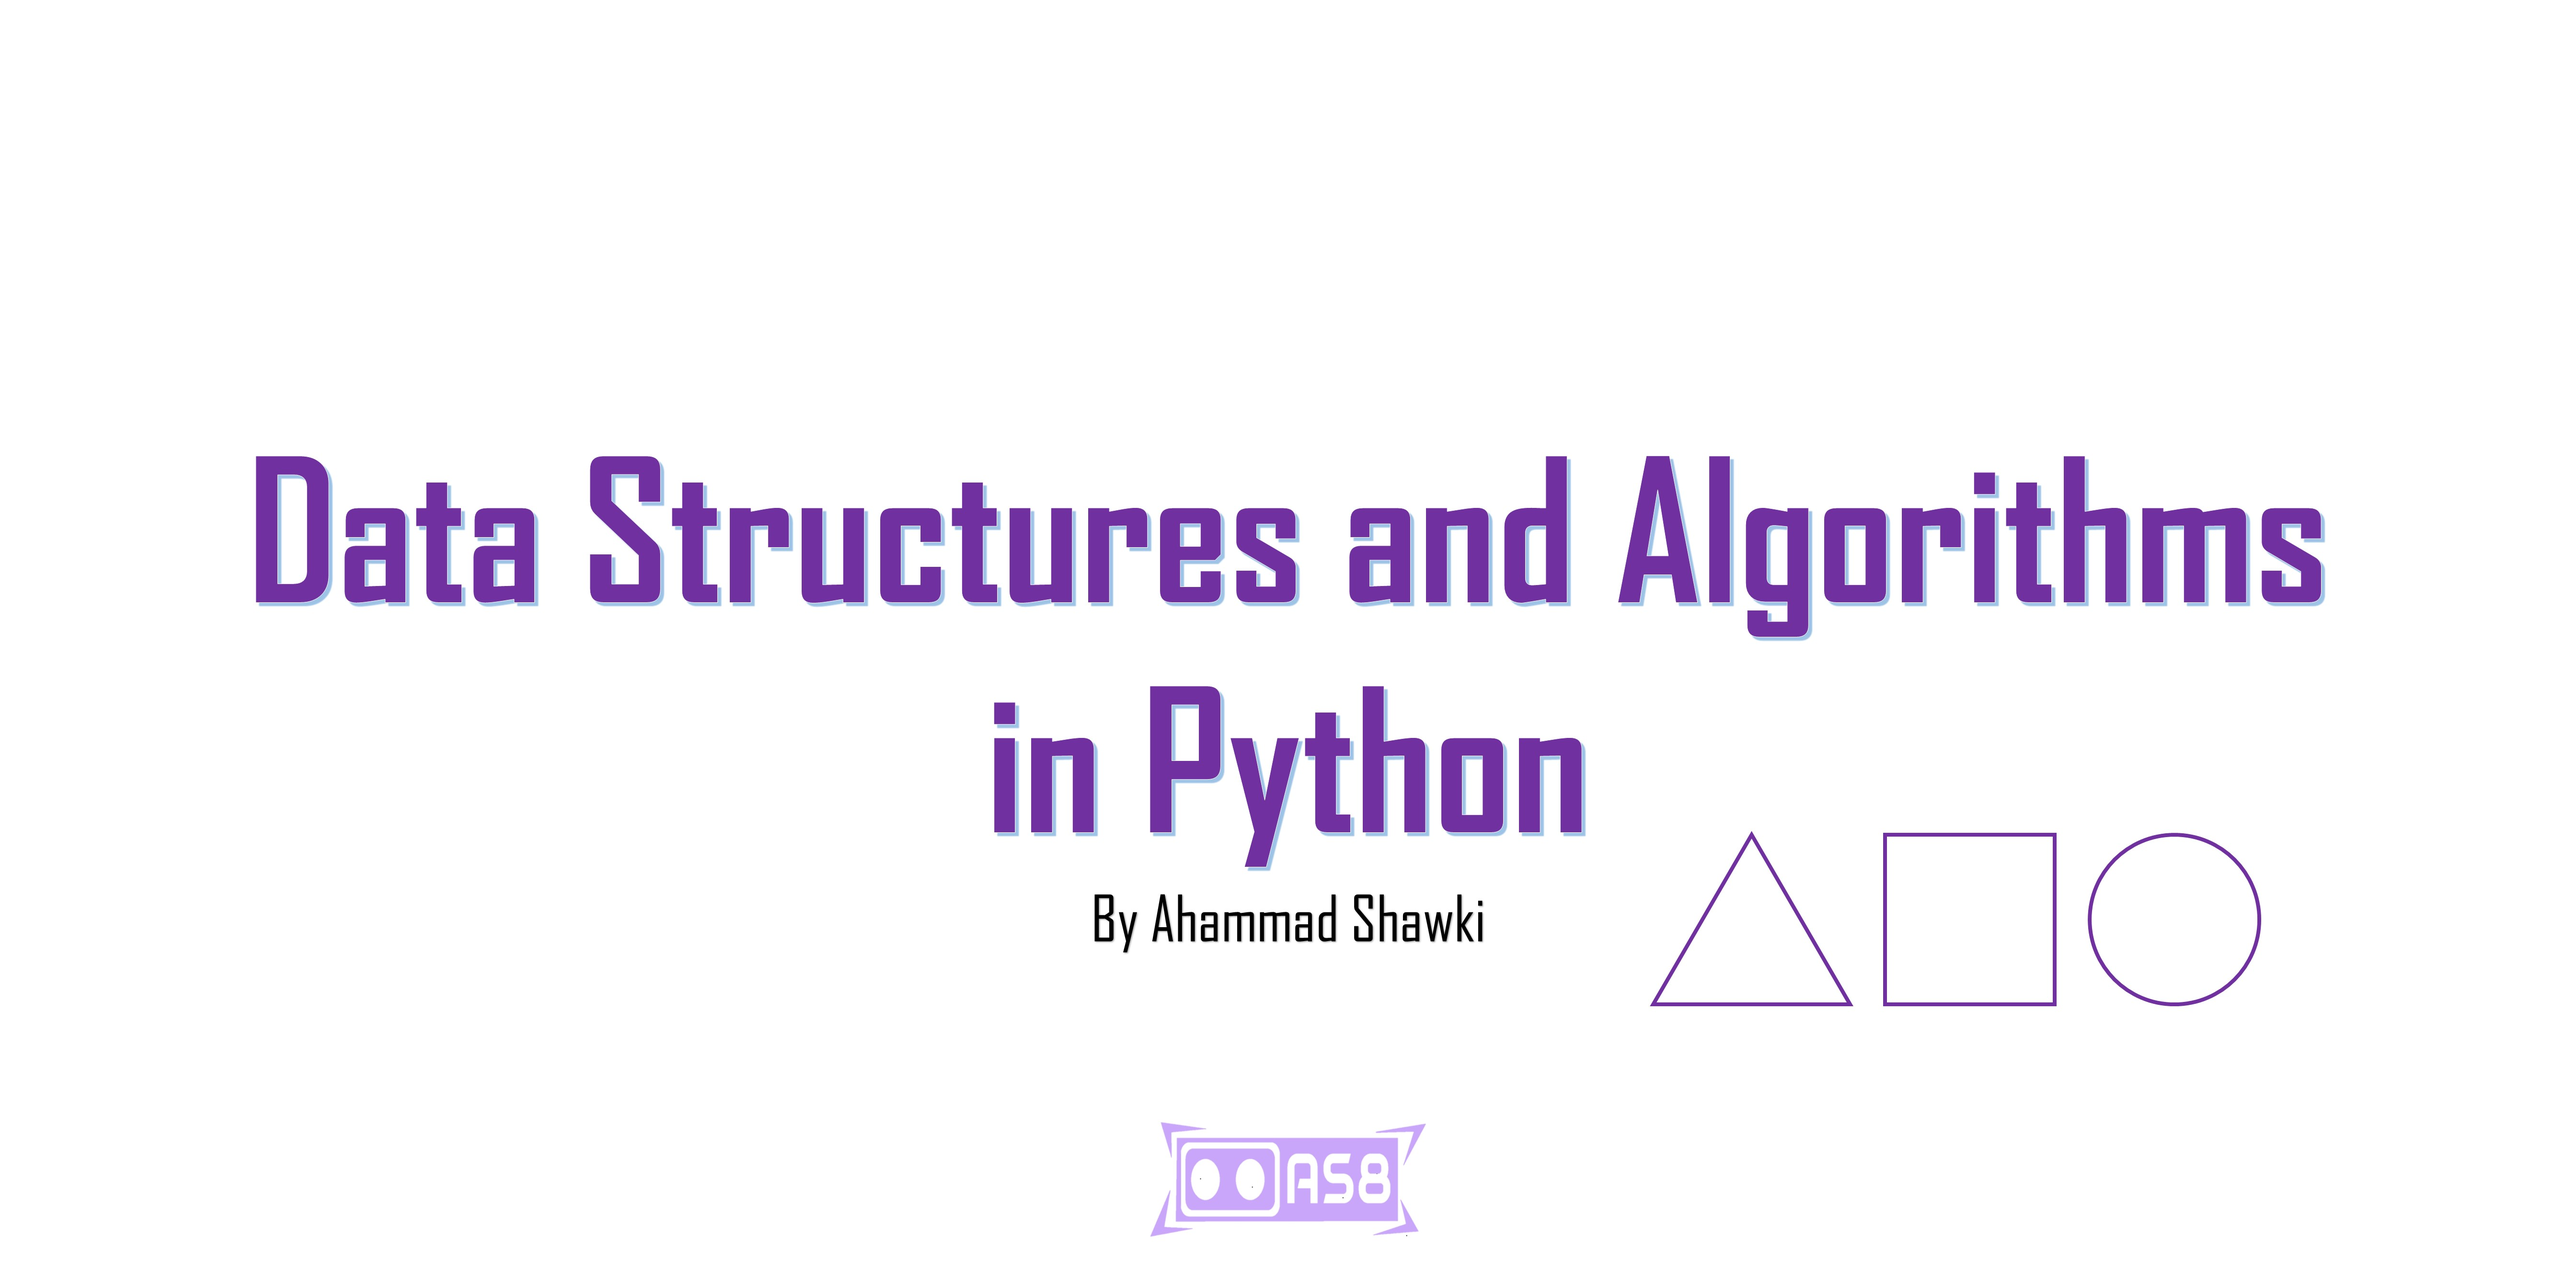
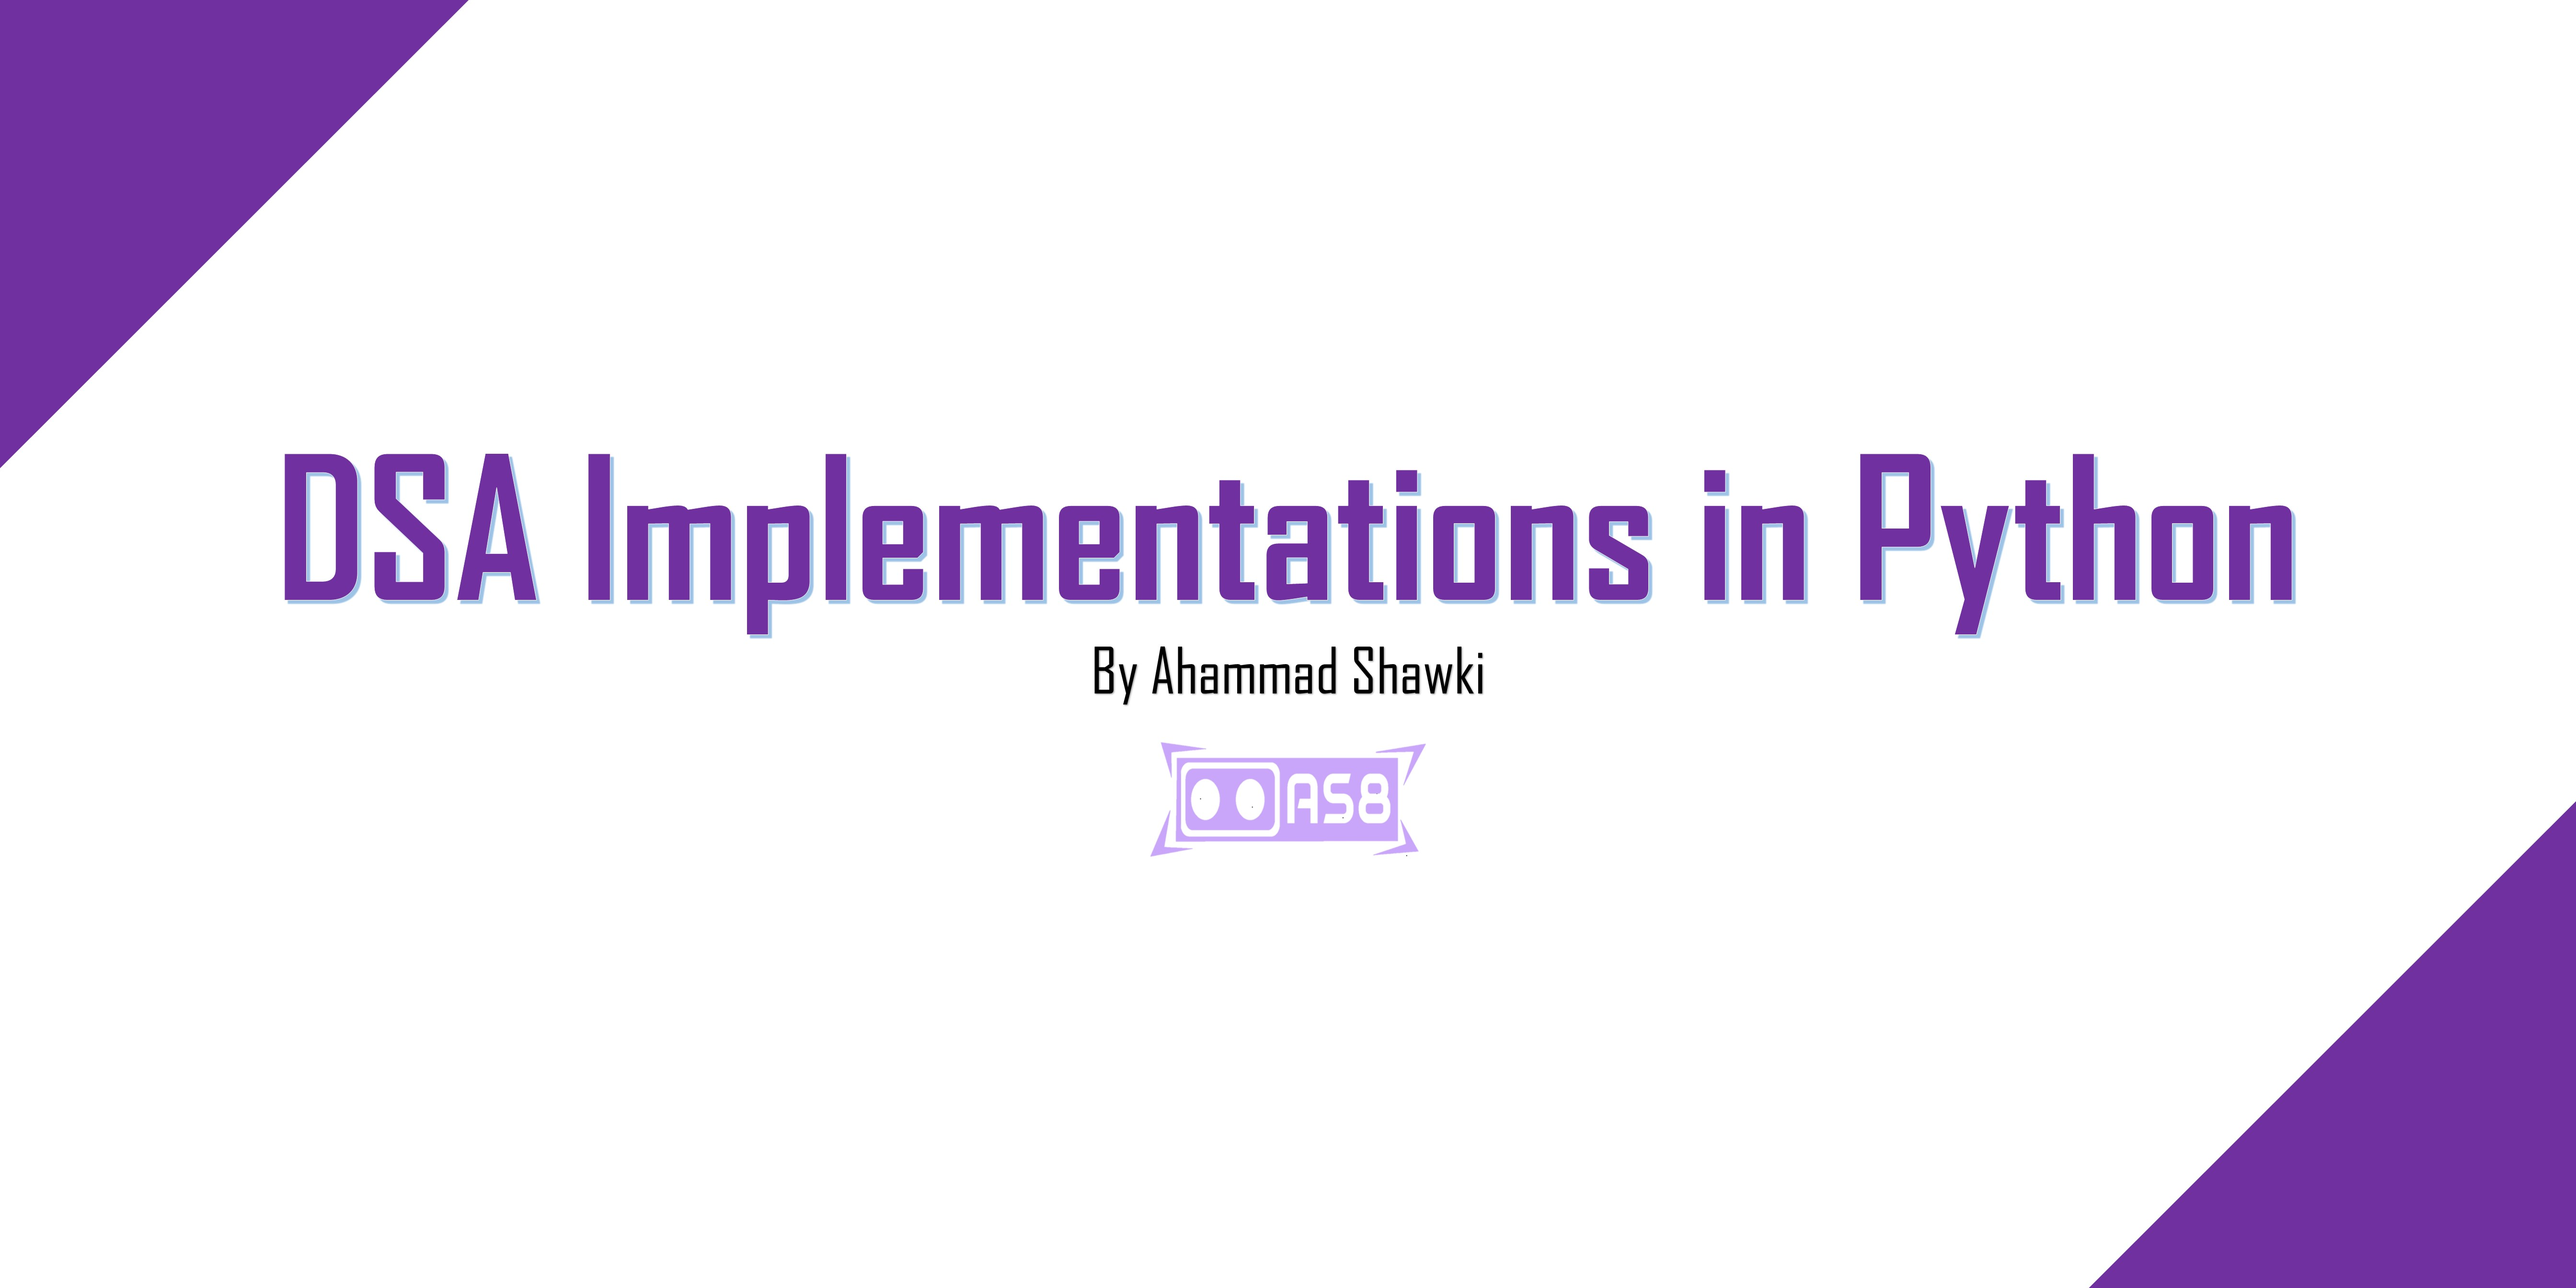
newest

diff --git a/Index.html b/Index.html
@@ -80,7 +80,7 @@
             <div class="single-post-content-wrapper p-3">
                <p class="lead">Welcome to my personal website. My name is Ahammad Shawki. I am currently an SSC candidate studying in Rajuk Uttara Model College. I am a 15 years old self taught Data Scientist, Python Programmer and Web Developer.</p>
 <p class="lead">I grew up in Dhaka, Bangladesh. I am intersted in participating different Olympiads. I like Math, Problem Solving, Programming and Painting.</p>
-<p class="lead">Professionally, I am very passionate about applications of Deep Learning, Machine Learning and Artificial Intelligence. Python is my favourite programming language. Currently, I am working in a project about "Data Structures and Algorithms in Python". This project focuses implementing different data structures and algorithms in Python language.</p>
+<p class="lead">Professionally, I am very passionate about applications of Deep Learning, Machine Learning and Artificial Intelligence. Python is my favourite programming language. Currently, I am working in a project about <a href="https://github.com/ahammadshawki8/DSA-Implementations-in-Python">"DSA Implementations in Python"</a>. This project focuses implementing different data structures and algorithms in Python language.</p>
 <p class="lead">If you need to contact me, send an email to ahammadshawki8@gmail.com</p>
   <hr class="my-4">
   <a class="btn btn-dark" href="https://github.com/ahammadshawki8" role="button">Learn more</a>

diff --git a/project.html b/project.html
@@ -150,9 +150,9 @@
 <div class="card border-success mb-3">
   <img src="image/program/data_structures.jpg" class="card-img-top" alt="...">
 </div>
- <h1 class="display-4">Data Structures and Algorithms</h1>
+ <h1 class="display-4">DSA Implementations in Python</h1>
     <p class="lead">Knowledge of "Data Structures and Algorithms" is one of the basic needs to become a good programmer. So, I have created a GitHub repository which contains implemetations of different data structures and algorithms in Python.</p>
-    <a class="btn btn-success" href="https://github.com/ahammadshawki8/Data-Structures-Algorithms-in-Python" role="button">Code</a>
+    <a class="btn btn-success" href="https://github.com/ahammadshawki8/DSA-Implementations-in-Python" role="button">Code</a>
 </div>
 
 <div class="jumbotron">
